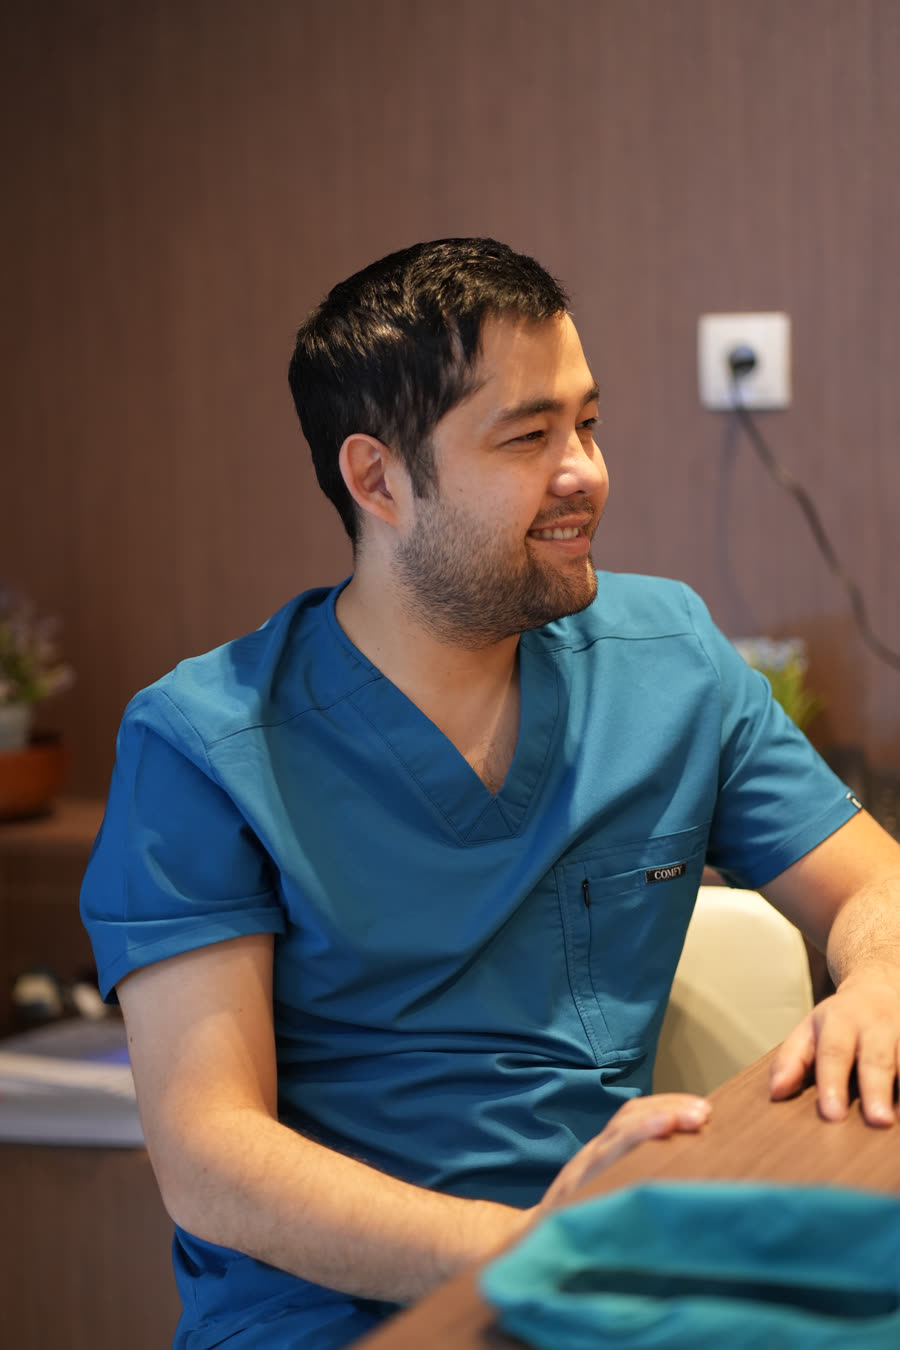
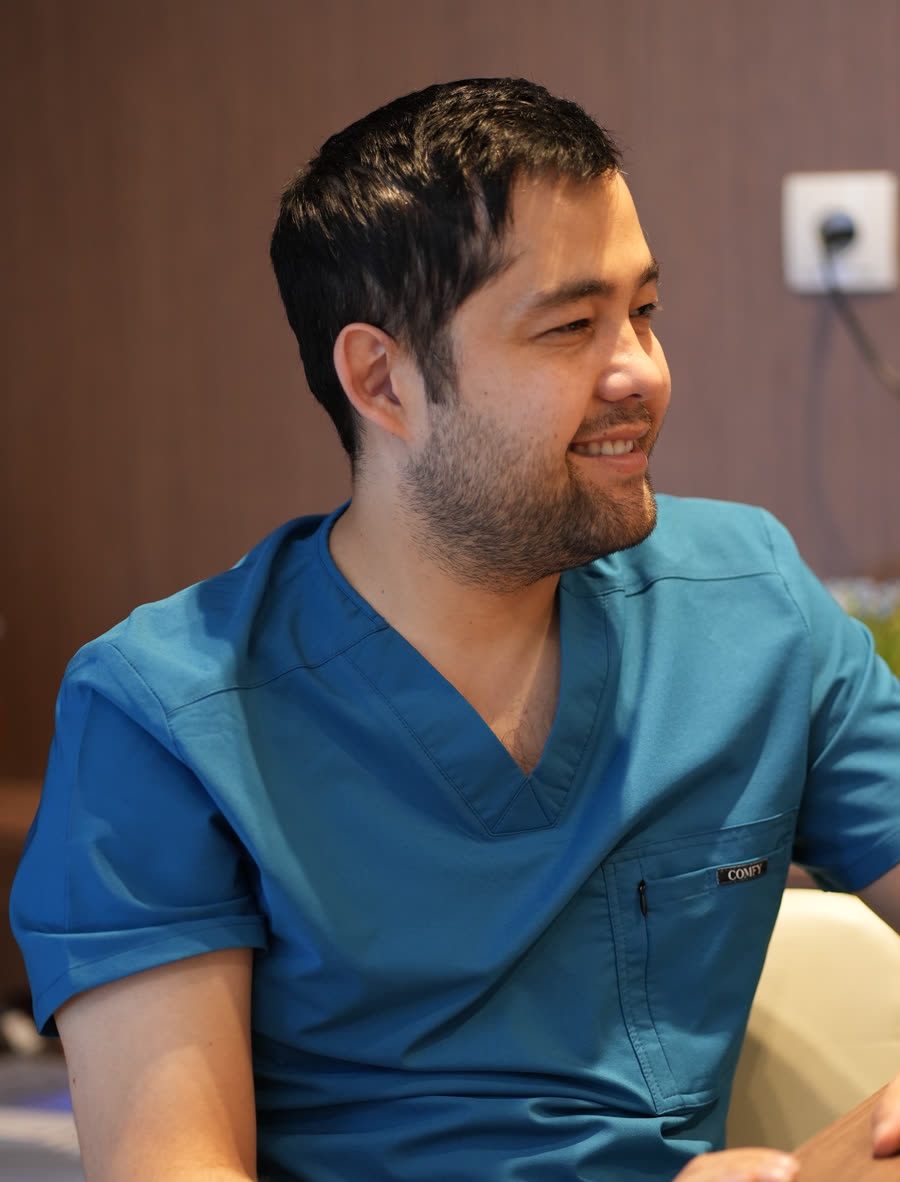
Crop consultation photo closer; lift two-surgeons photo framing

diff --git a/site/style.css b/site/style.css
@@ -116,8 +116,9 @@ h3{font-size:17px;font-weight:700;letter-spacing:-.01em}
 /* why */
 .strip{display:grid;grid-template-columns:minmax(0,1.15fr) minmax(0,1fr);grid-template-rows:repeat(2,minmax(0,1fr));gap:8px;margin-top:22px;height:min(110vw,520px)}
 .strip img{width:100%;height:100%;min-height:0;object-fit:cover;object-position:50% 15%;border-radius:16px}
-.strip img:first-child{grid-row:1 / 3;object-position:50% 35%}
+.strip img:first-child{grid-row:1 / 3;object-position:50% 30%}
 .strip img:last-child{object-position:40% 25%}
+.strip img:nth-child(2){object-position:50% 85%}
 .cards{display:grid;gap:10px;margin-top:10px}
 .card{border:1px solid var(--line);border-radius:var(--r);padding:18px 18px 18px 64px;position:relative;background:rgba(10,28,42,.5)}
 .card b{position:absolute;left:18px;top:18px;font-size:13px;font-weight:800;color:var(--teal);font-variant-numeric:tabular-nums;letter-spacing:.05em}

diff --git a/site/index.html b/site/index.html
@@ -119,7 +119,7 @@
   <p class="eyebrow" data-i18n="w_eye">Usul</p>
   <h2 data-i18n="w_h">Nega chandiqsiz jarrohlik?</h2>
   <div class="strip" aria-hidden="true">
-    <img src="img/jarrohlik3.jpg" alt="" loading="lazy" width="900" height="1350">
+    <img src="img/jarrohlik3.jpg" alt="" loading="lazy" width="900" height="1182">
     <img src="img/jarrohlik2.jpg" alt="" loading="lazy" width="900" height="1350">
     <img src="img/jarrohlik1.jpg" alt="" loading="lazy" width="900" height="1200">
   </div>
